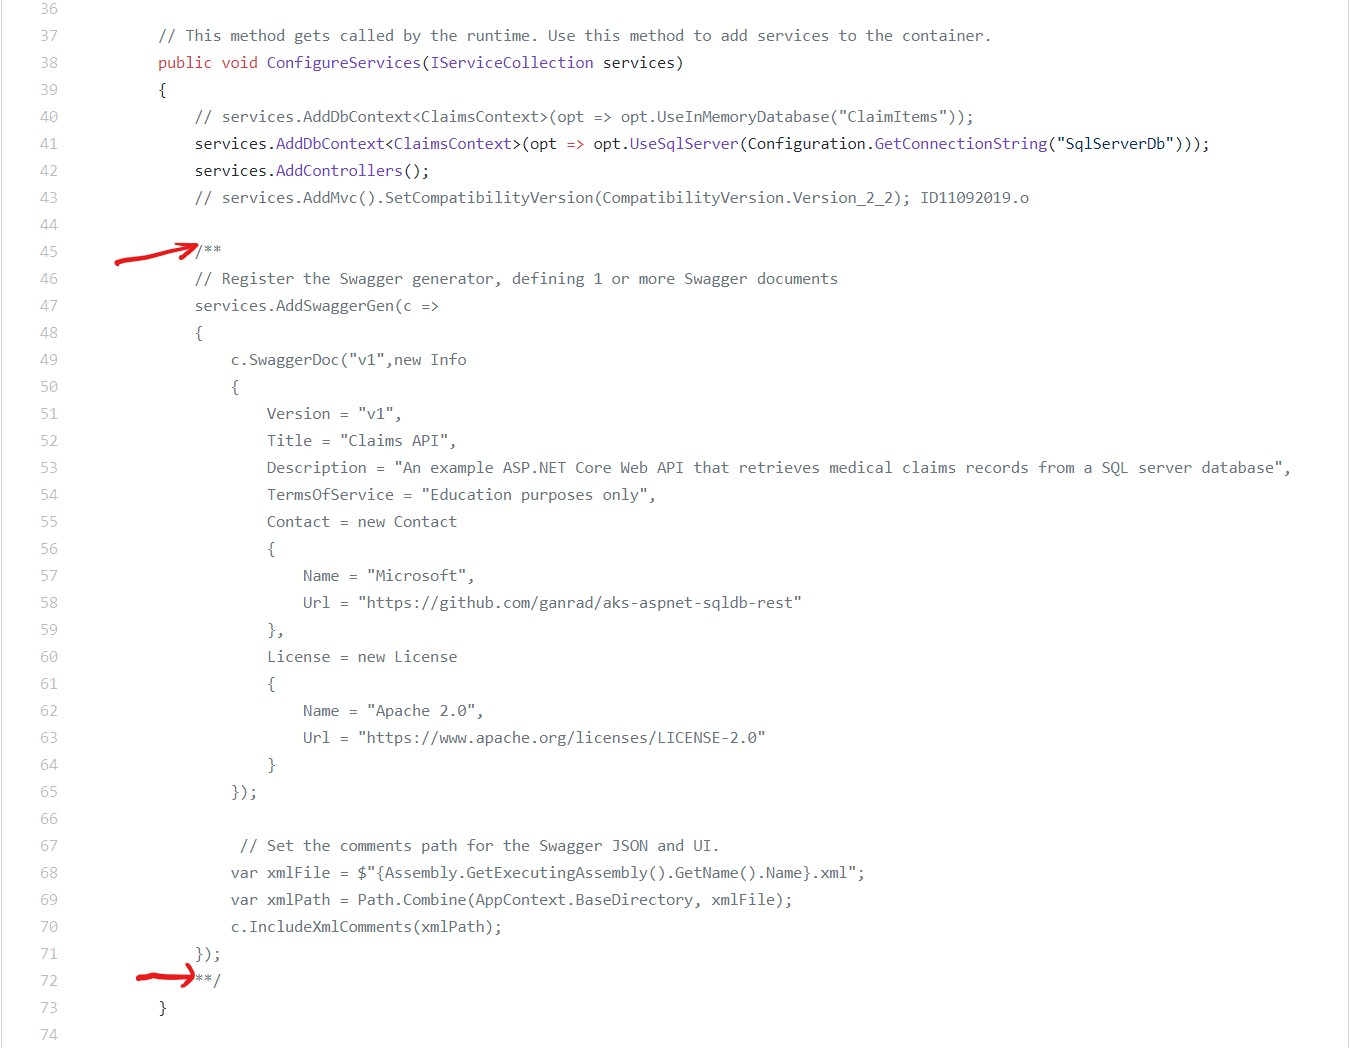
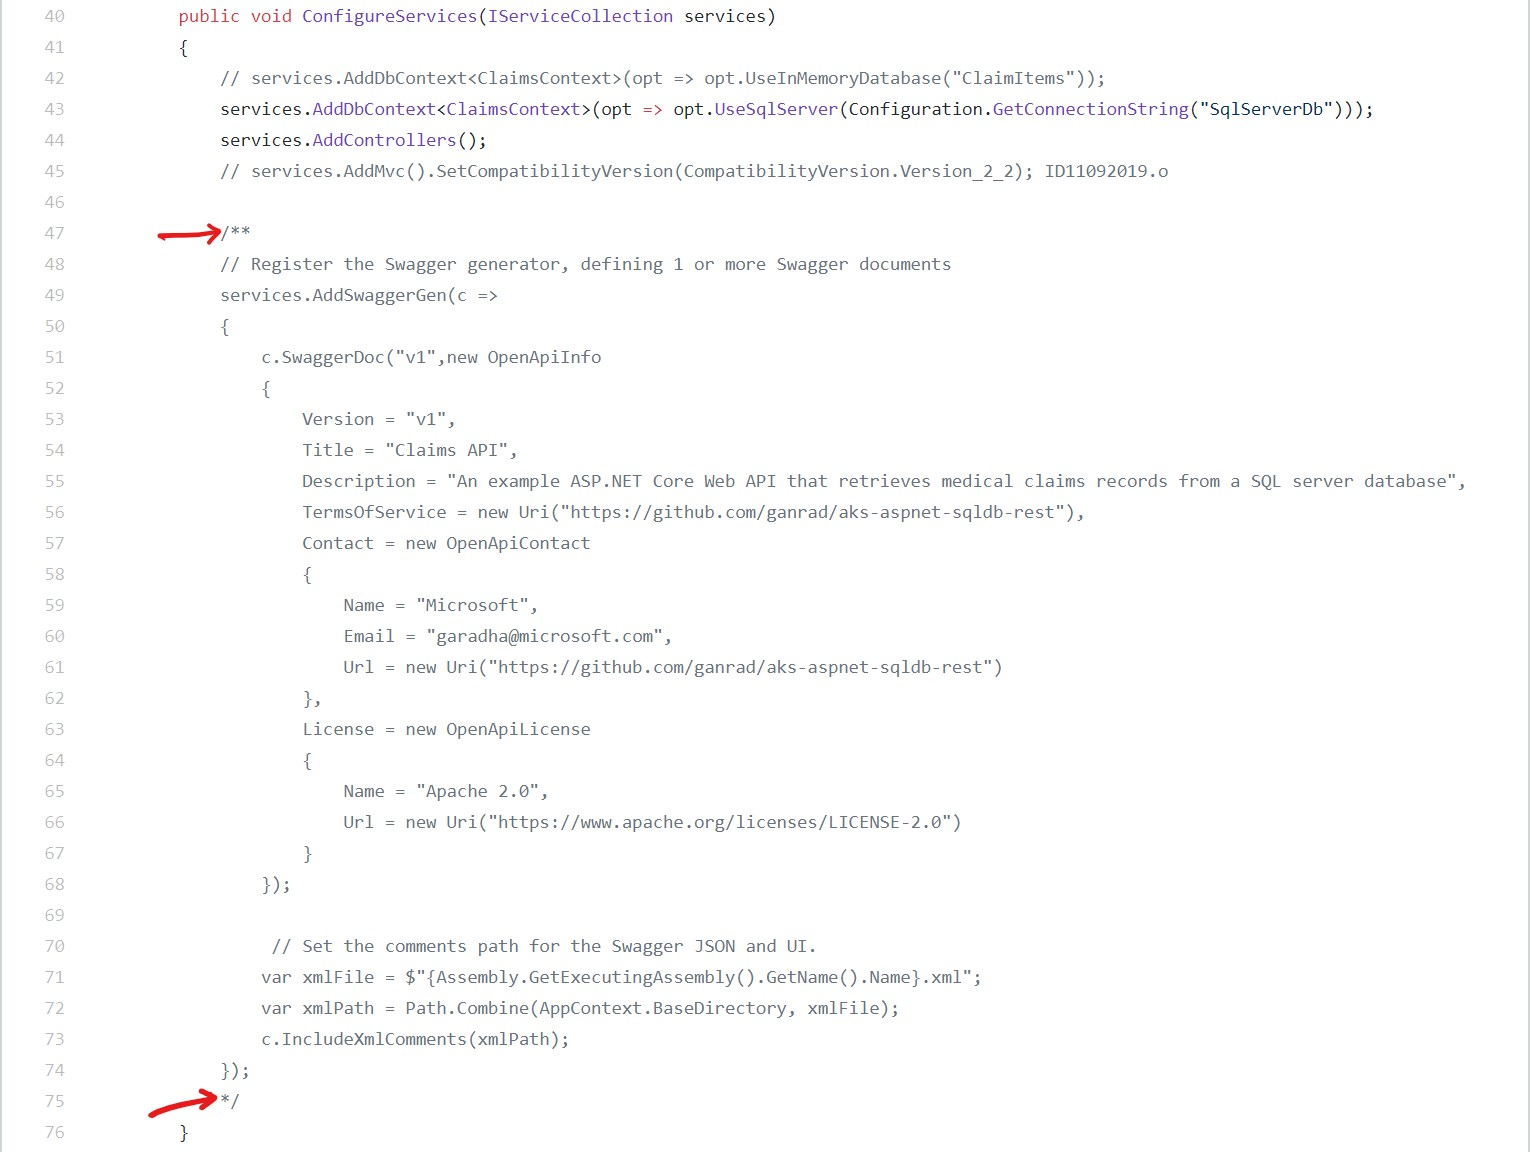
Updated Readme doc

diff --git a/README.md b/README.md
@@ -1079,11 +1079,11 @@ In the next section, we will define a *Release Pipeline* in Azure DevOps to auto
 
     ![alt tag](./images/H-19.PNG)
 
-    Uncomment lines 45 thru 72 (marked in red).
+    Uncomment lines 47 thru 75 (marked in red).
 
     ![alt tag](./images/H-20.jpg)
 
-    Uncomment lines 88 thru 96 (marked in red).
+    Uncomment lines 91 thru 99 (marked in red).
 
     ![alt tag](./images/H-21.jpg)
 
